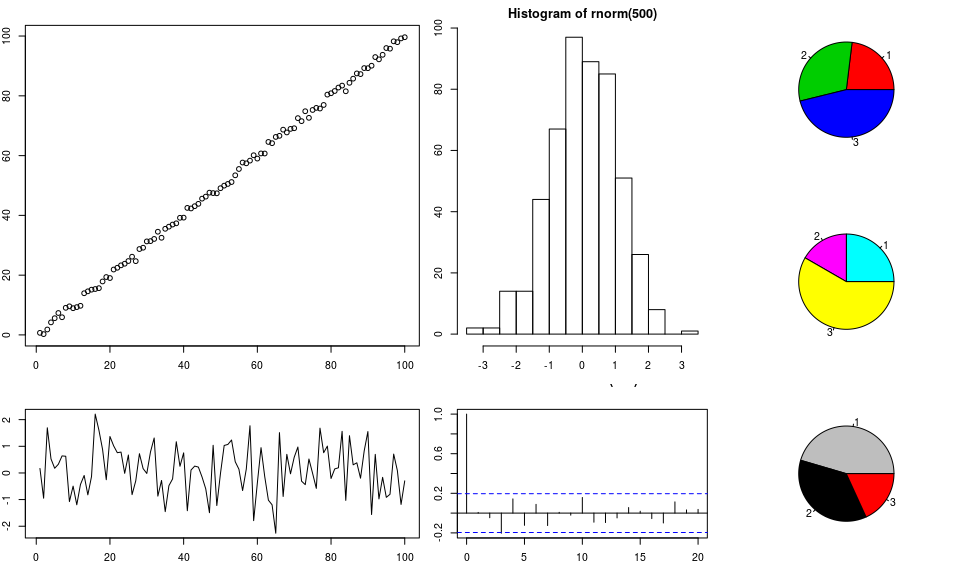
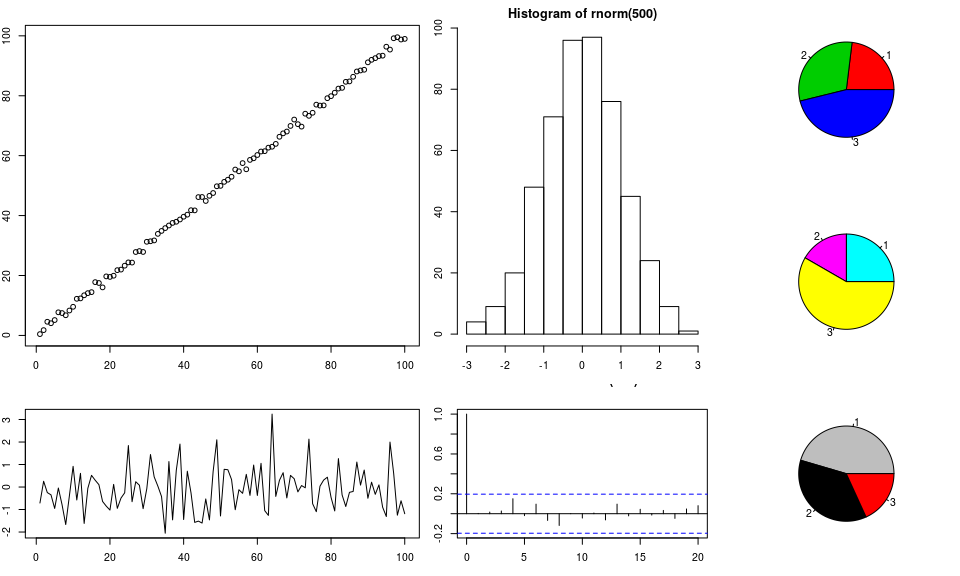
update readme

diff --git a/README.md b/README.md
@@ -19,12 +19,18 @@ Basic functionality:
 You can simply create layouts like in base R:
 
     library(customLayout)
-    lay = layCreate(matrix(1:4,nc=2),widths=c(3,2),heights=c(2,1))
+    lay <- layCreate(
+      matrix(1:4, nc = 2),
+      widths = c(3, 2),
+      heights = c(2, 1))
     layShow(lay)
 
 ![](README_files/figure-markdown_strict/base-1.png)
 
-    lay2 = layCreate(matrix(1:4,nc=2),widths=c(3,5),heights=c(2,4))
+    lay2 <- layCreate(
+      matrix(1:4, nc = 2),
+      widths = c(3, 5),
+      heights = c(2, 4))
     layShow(lay2)
 
 ![](README_files/figure-markdown_strict/base-2.png)
@@ -34,20 +40,20 @@ specific ratio:
 
     # lay will be 3 times wider that lay2
     # all ascects in lay and lay2 will be preserved
-    cl = layColBind(lay,lay2, widths=c(3,1))
+    cl = layColBind(lay, lay2, widths = c(3, 1))
     layShow(cl)
 
 ![](README_files/figure-markdown_strict/combine-1.png)
 
 You can also create even more complicated layouts:
 
-    lay3 = layCreate(matrix(1:2))
-    lay4 = layRowBind(cl,lay3, heights=c(5,2))
+    lay3 <- layCreate(matrix(1:2))
+    lay4 <- layRowBind(cl, lay3, heights = c(5, 2))
     layShow(lay4)
 
 ![](README_files/figure-markdown_strict/complicated-1.png)
 
-    lay5 = layColBind(lay4,lay3, widths=c(5,2))
+    lay5 <- layColBind(lay4, lay3, widths = c(5, 2))
     layShow(lay5)
 
 ![](README_files/figure-markdown_strict/complicated-2.png)
@@ -58,18 +64,24 @@ Split layout
 You can create very complicated layouts by splitting one field:
 
     library(customLayout)
-    lay = layCreate(matrix(1:4,nc=2),widths=c(3,2),heights=c(2,1))
+    lay <- layCreate(
+      matrix(1:4, nc = 2),
+      widths = c(3, 2),
+      heights = c(2, 1))
     layShow(lay)
 
 ![](README_files/figure-markdown_strict/split-1.png)
 
-    lay2 = layCreate(matrix(1:4,nc=2),widths=c(3,5),heights=c(2,4))
+    lay2 <- layCreate(
+      matrix(1:4, nc = 2),
+      widths = c(3, 5),
+      heights = c(2, 4))
     layShow(lay2)
 
 ![](README_files/figure-markdown_strict/split-2.png)
 
     # Split field 4 from lay into lay2:
-    slay = laySplitField(lay, lay2, field = 4)
+    slay <- laySplitField(lay, lay2, field = 4)
     layShow(slay)
 
 ![](README_files/figure-markdown_strict/split-3.png)
@@ -77,18 +89,24 @@ You can create very complicated layouts by splitting one field:
 Example session:
 ----------------
 
-    require(customLayout)
-    par(mar = c(3,2,2,1))
-    lay = layCreate(matrix(1:4,nc=2),widths=c(3,2),heights=c(2,1))
-    lay2 = layCreate(matrix(1:3))
-    cl = layColBind(lay,lay2, widths=c(3,1))
+    library(customLayout)
+    par(mar = c(3, 2, 2, 1))
+    lay  <- layCreate(
+      matrix(1:4, nc = 2),
+      widths = c(3, 2),
+      heights = c(2, 1))
+    lay2 <- layCreate(matrix(1:3))
+    cl   <- layColBind(lay, lay2, widths = c(3, 1))
+
     laySet(cl) # initialize drawing area
-    plot(1:100+rnorm(100))
+
+    set.seed(123)
+    plot(1:100 + rnorm(100))
     plot(rnorm(100), type = "l")
     hist(rnorm(500))
     acf(rnorm(100))
-    pie(c(3,4,6),col = 2:4)
-    pie(c(3,2,7),col = 2:4+3)
-    pie(c(5,4,2),col = 2:4+6)
+    pie(c(3, 4, 6), col = 2:4)
+    pie(c(3, 2, 7), col = 2:4 + 3)
+    pie(c(5, 4, 2), col = 2:4 + 6)
 
 ![](README_files/figure-markdown_strict/example-1.png)
